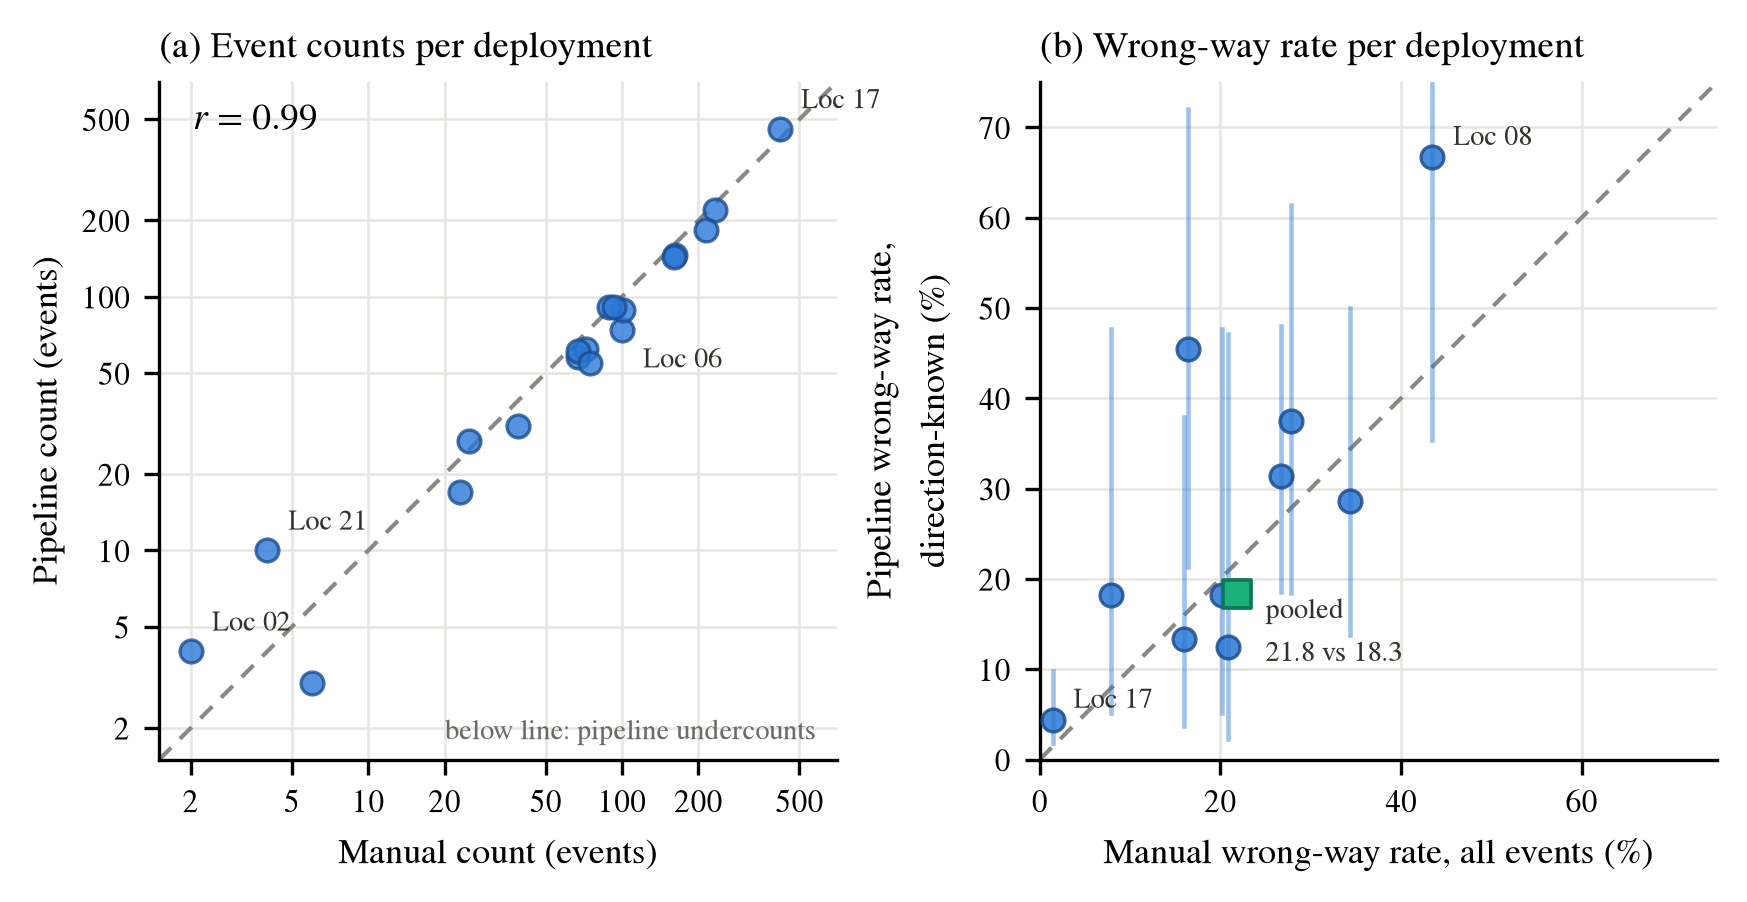
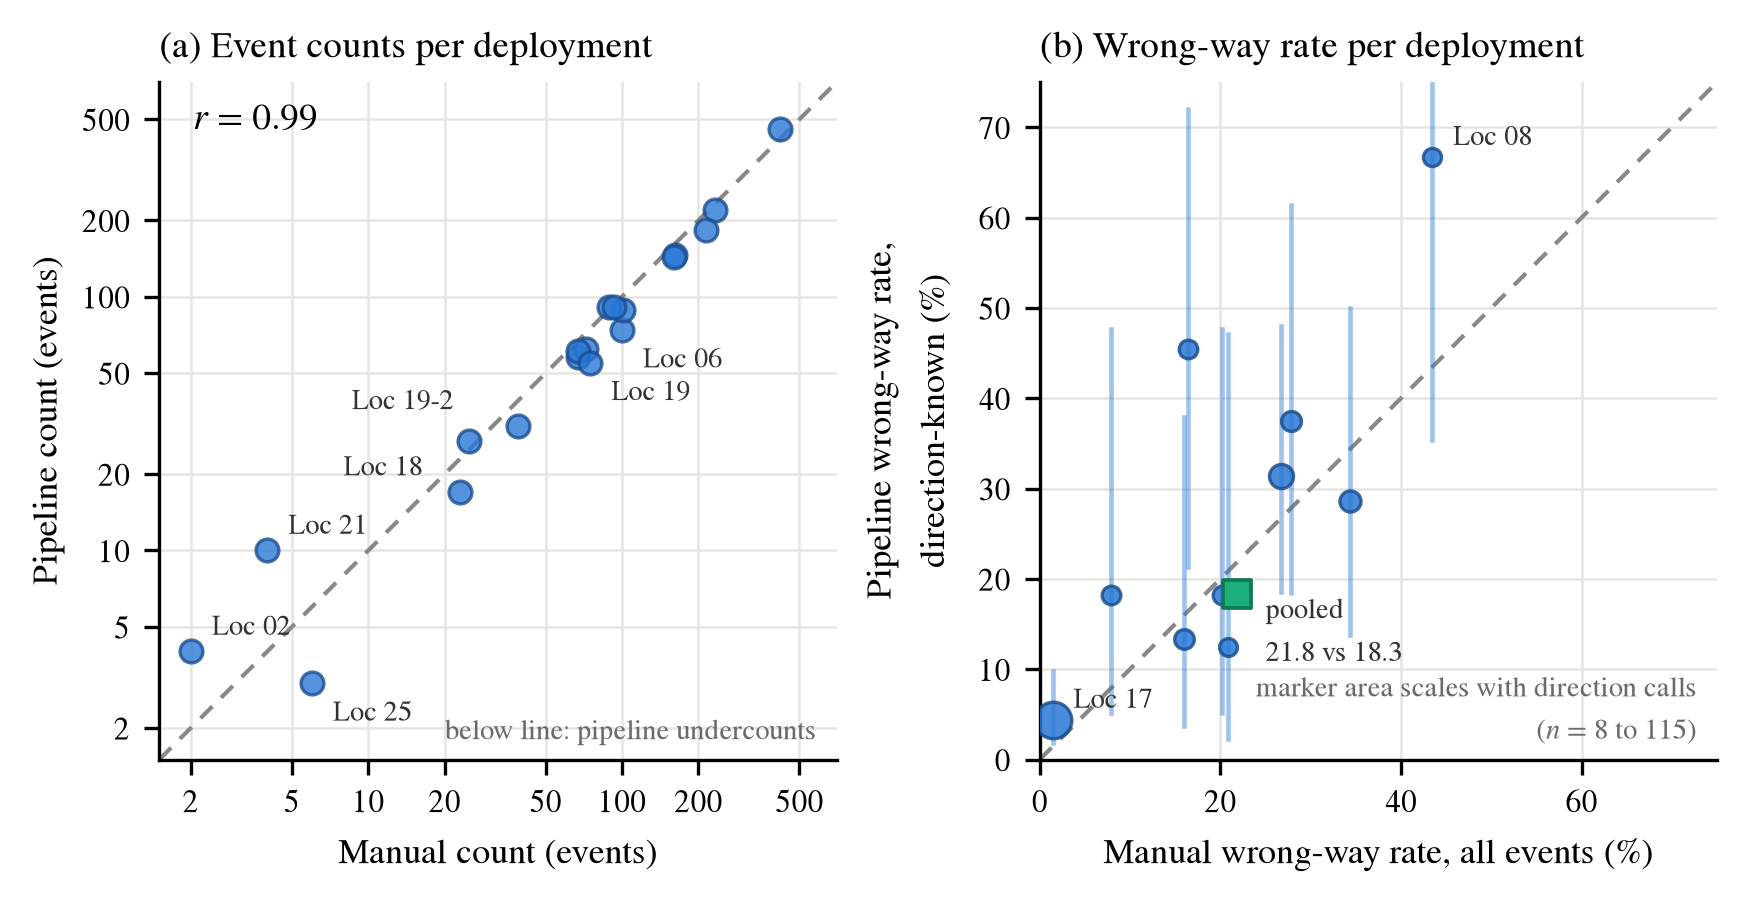
Label rule and reliability encoding for the validation figure
Panel (a) labels every deployment whose count deviates from the
manual count by more than 20 percent. Panel (b) scales marker area
with the number of direction calls so reliable subsets read as
heavier, with the rule noted on the panel.

diff --git a/paper/make_figs_v3.py b/paper/make_figs_v3.py
@@ -90,11 +90,14 @@ def fig_validation(rows, out):
     ax1.set_xticks(ticks, [str(t) for t in ticks])
     ax1.set_yticks(ticks, [str(t) for t in ticks])
     ax1.minorticks_off()
+    label_off = {"02": (5, 4), "21": (5, 4), "25": (5, -9), "06": (5, -9),
+                 "18": (-28, 4), "19": (5, -9), "19-2": (-40, 4)}
     for l, m, p in zip(locs, manual, pipe):
-        if l in ("17", "21", "02", "06"):
+        ratio = p / m
+        if ratio < 0.8 or ratio > 1.25:
+            dx, dy = label_off.get(l, (5, 4))
             ax1.annotate(f"Loc {l}", (m, p), textcoords="offset points",
-                         xytext=(5, -9 if l in ("06",) else 5), fontsize=6.8,
-                         color=INK)
+                         xytext=(dx, dy), fontsize=6.8, color=INK)
     ax1.text(0.05, 0.93, "$r$ = 0.99", transform=ax1.transAxes, fontsize=9)
     ax1.text(0.97, 0.03, "below line: pipeline undercounts",
              transform=ax1.transAxes, fontsize=6.8, ha="right", color=MUTED)
@@ -114,7 +117,7 @@ def fig_validation(rows, out):
         lo, hi = wilson_ci(a, n)
         ax2.plot([mx, mx], [lo * 100, hi * 100], color=BLUE, lw=1.1,
                  alpha=0.45, zorder=2)
-        ax2.scatter([mx], [py], s=30, facecolor=BLUE, alpha=0.85,
+        ax2.scatter([mx], [py], s=14 + 0.55 * n, facecolor=BLUE, alpha=0.85,
                     edgecolor="#1b4e8f", linewidth=0.8, zorder=3)
         if r["loc"] in ("08", "17"):
             ax2.annotate(f"Loc {r['loc']}", (mx, py),
@@ -125,6 +128,8 @@ def fig_validation(rows, out):
     ax2.annotate("pooled\n21.8 vs 18.3", (21.8, 18.3),
                  textcoords="offset points", xytext=(7, -16), fontsize=6.8,
                  color=INK)
+    ax2.text(0.97, 0.03, "marker area scales with direction calls\n($n$ = 8 to 115)",
+             transform=ax2.transAxes, fontsize=6.8, ha="right", color=MUTED)
     ax2.set_xlim(0, 75); ax2.set_ylim(0, 75)
     ax2.set_xlabel("Manual wrong-way rate, all events (%)", fontsize=8.5)
     ax2.set_ylabel("Pipeline wrong-way rate,\ndirection-known (%)", fontsize=8.5)
